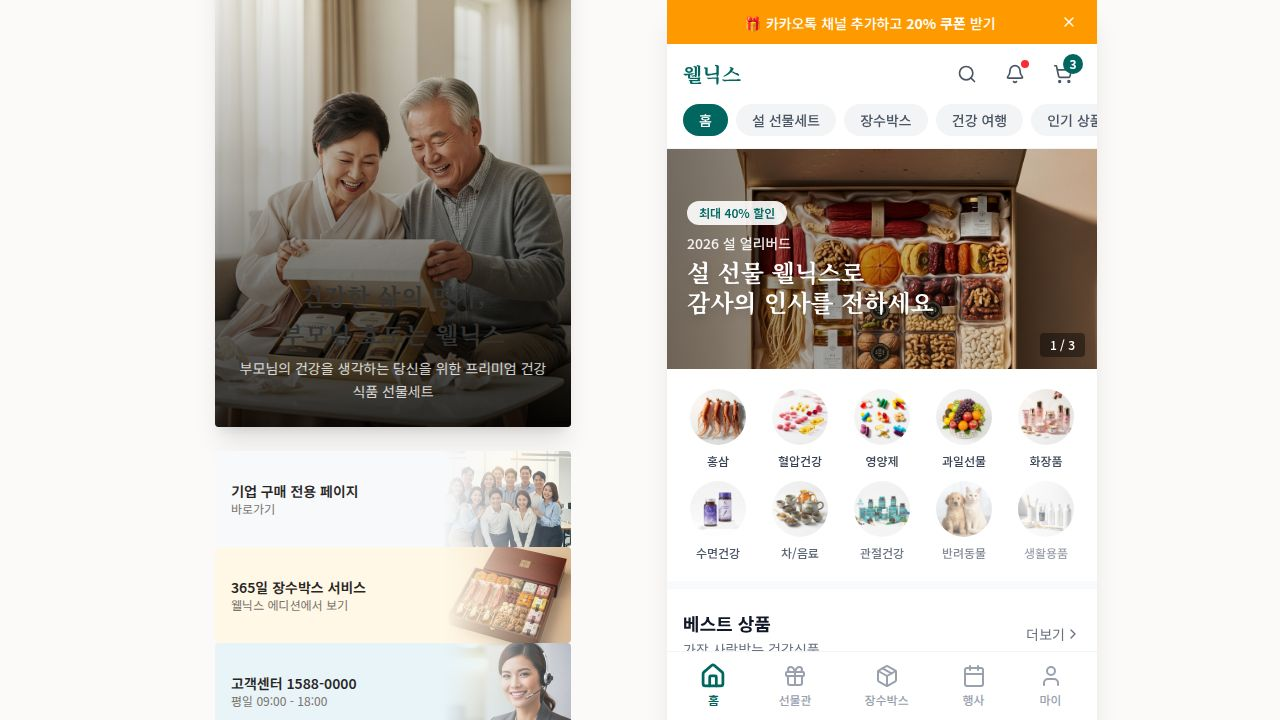
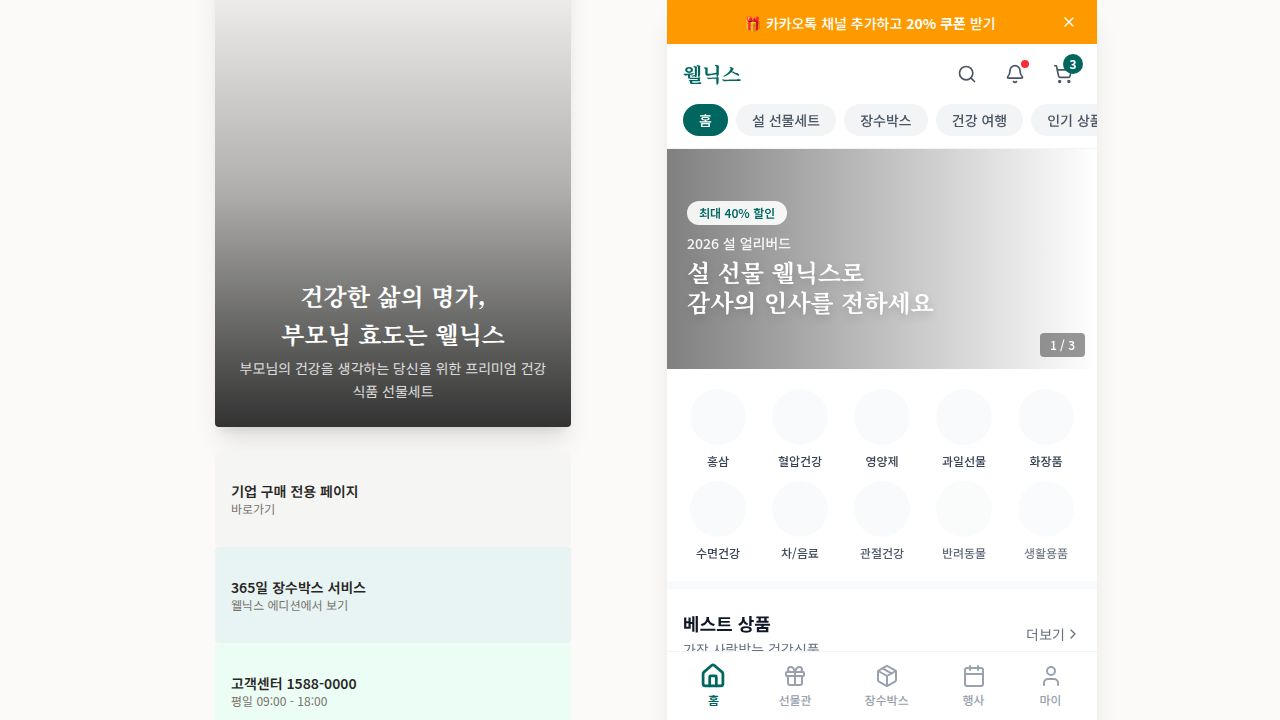
Update image sources to use Supabase storage
Refactored image imports across multiple client-side components and pages to utilize Supabase Storage URLs, replacing local asset paths. A new `client/src/lib/images.ts` file was created to manage these Supabase image URLs.

Replit-Commit-Author: Agent
Replit-Commit-Session-Id: 95a69fef-815c-4686-acda-0bf1406a2c86
Replit-Commit-Checkpoint-Type: full_checkpoint
Replit-Commit-Event-Id: 838c2716-43de-472b-a230-b011d13efcd7
Replit-Commit-Screenshot-Url: https://storage.googleapis.com/screenshot-production-us-central1/d231b134-7ceb-4650-be16-58a3bee1cfa0/95a69fef-815c-4686-acda-0bf1406a2c86/3YvdiOA
Replit-Helium-Checkpoint-Created: true

diff --git a/client/src/lib/images.ts b/client/src/lib/images.ts
@@ -1,0 +1,44 @@
+const SUPABASE_URL = import.meta.env.VITE_SUPABASE_URL || "https://iquuynjyrvsnpvpijbql.supabase.co";
+const BUCKET = "_public";
+const FOLDER = "images";
+
+function getImageUrl(filename: string): string {
+  return `${SUPABASE_URL}/storage/v1/object/public/${BUCKET}/${FOLDER}/${filename}`;
+}
+
+export const images = {
+  happySeniorsReceivingGift: getImageUrl("happy_seniors_receiving_gift.png"),
+  smilingOfficeWorkersTeam: getImageUrl("smiling_office_workers_team.png"),
+  koreanHealthGiftSet: getImageUrl("korean_health_gift_set.png"),
+  customerServiceRepresentativeHeadset: getImageUrl("customer_service_representative_headset.png"),
+  happyKoreanSeniorsOpeningLuxuryGiftBox: getImageUrl("happy_korean_seniors_opening_luxury_gift_box.png"),
+  smartphoneShowingCaringMessageNotification: getImageUrl("smartphone_showing_caring_message_notification.png"),
+  premiumKoreanHealthGiftBoxComposition: getImageUrl("premium_korean_health_gift_box_composition.png"),
+  premiumKoreanHealthGiftBox: getImageUrl("premium_korean_health_gift_box.png"),
+  koreanRedGinsengRoots: getImageUrl("korean_red_ginseng_roots.png"),
+  heartHealthSupplements: getImageUrl("heart_health_supplements.png"),
+  vitaminSupplementsPills: getImageUrl("vitamin_supplements_pills.png"),
+  freshFruitGiftBasket: getImageUrl("fresh_fruit_gift_basket.png"),
+  luxuryCosmeticsSkincareSet: getImageUrl("luxury_cosmetics_skincare_set.png"),
+  sleepHealthSupplements: getImageUrl("sleep_health_supplements.png"),
+  koreanTeaSet: getImageUrl("korean_tea_set.png"),
+  jointHealthSupplements: getImageUrl("joint_health_supplements.png"),
+  cuteDogAndCatTogether: getImageUrl("cute_dog_and_cat_together.png"),
+  dailyToiletriesProducts: getImageUrl("daily_toiletries_products.png"),
+  premiumLuxuryGiftBox: getImageUrl("premium_luxury_gift_box.png"),
+  seniorsHealthTourEvent: getImageUrl("seniors_health_tour_event.png"),
+  koreanRedGinsengJeonggwa: getImageUrl("korean_red_ginseng_jeonggwa.png"),
+  koreanDriedJujubeChips: getImageUrl("korean_dried_jujube_chips.png"),
+  organicWalnutsInBowl: getImageUrl("organic_walnuts_in_bowl.png"),
+  happySeniorsOpeningGiftBox: getImageUrl("happy_seniors_opening_gift_box.png"),
+  koreanTempleAutumnTravel: getImageUrl("korean_temple_autumn_travel.png"),
+  modernWellnessCompanyHq: getImageUrl("modern_wellness_company_hq.png"),
+  seniorRehabTherapyEquipment: getImageUrl("senior_rehab_therapy_equipment.png"),
+  luxuryKoreanHealthGiftSet: getImageUrl("luxury_korean_health_gift_set.png"),
+  koreanLuckyPouchBokjumeoni: getImageUrl("korean_lucky_pouch_bokjumeoni.png"),
+  traditionalKoreanHangwaCookies: getImageUrl("traditional_korean_hangwa_cookies.png"),
+  energyBoostingSupplements: getImageUrl("energy_boosting_supplements.png"),
+  petCareHealthProducts: getImageUrl("pet_care_health_products.png"),
+  organicGradientHealthBackground: getImageUrl("organic_gradient_health_background.png"),
+  vitaminDAndCSupplements: getImageUrl("vitamin_d_and_c_supplements.png"),
+};

diff --git a/client/src/pages/GiftsPage.tsx b/client/src/pages/GiftsPage.tsx
@@ -3,28 +3,19 @@ import { Filter, ChevronDown, ArrowLeft, ShoppingCart } from "lucide-react";
 import { useLocation } from "wouter";
 import { useQuery } from "@tanstack/react-query";
 import { AppLayout } from "@/components/AppLayout";
-import ginsengImg from "@assets/generated_images/korean_red_ginseng_roots.png";
-import heartImg from "@assets/generated_images/heart_health_supplements.png";
-import vitaminImg from "@assets/generated_images/vitamin_supplements_pills.png";
-import fruitImg from "@assets/generated_images/fresh_fruit_gift_basket.png";
-import cosmeticsImg from "@assets/generated_images/luxury_cosmetics_skincare_set.png";
-import sleepImg from "@assets/generated_images/sleep_health_supplements.png";
-import teaImg from "@assets/generated_images/korean_tea_set.png";
-import jointImg from "@assets/generated_images/joint_health_supplements.png";
-import petImg from "@assets/generated_images/cute_dog_and_cat_together.png";
-import dailyImg from "@assets/generated_images/daily_toiletries_products.png";
+import { images } from "@/lib/images";
 
 const categoryImageMap: Record<string, string> = {
-  "ginseng": ginsengImg,
-  "vitamins": vitaminImg,
-  "juice": teaImg,
-  "probiotics": heartImg,
-  "joint": jointImg,
-  "blood": heartImg,
-  "cosmetics": cosmeticsImg,
-  "sleep": sleepImg,
-  "pet": petImg,
-  "daily": dailyImg,
+  "ginseng": images.koreanRedGinsengRoots,
+  "vitamins": images.vitaminSupplementsPills,
+  "juice": images.koreanTeaSet,
+  "probiotics": images.heartHealthSupplements,
+  "joint": images.jointHealthSupplements,
+  "blood": images.heartHealthSupplements,
+  "cosmetics": images.luxuryCosmeticsSkincareSet,
+  "sleep": images.sleepHealthSupplements,
+  "pet": images.cuteDogAndCatTogether,
+  "daily": images.dailyToiletriesProducts,
 };
 
 interface Product {
@@ -81,7 +72,7 @@ export default function GiftsPage() {
     : activeProducts;
 
   const getCategoryImage = (slug: string) => {
-    return categoryImageMap[slug] || ginsengImg;
+    return categoryImageMap[slug] || images.koreanRedGinsengRoots;
   };
 
   return (

diff --git a/client/src/components/CategoryGrid.tsx b/client/src/components/CategoryGrid.tsx
@@ -1,26 +1,17 @@
 import { useLocation } from "wouter";
-import ginsengImg from "@assets/generated_images/korean_red_ginseng_roots.png";
-import heartImg from "@assets/generated_images/heart_health_supplements.png";
-import vitaminImg from "@assets/generated_images/vitamin_supplements_pills.png";
-import fruitImg from "@assets/generated_images/fresh_fruit_gift_basket.png";
-import cosmeticsImg from "@assets/generated_images/luxury_cosmetics_skincare_set.png";
-import sleepImg from "@assets/generated_images/sleep_health_supplements.png";
-import teaImg from "@assets/generated_images/korean_tea_set.png";
-import jointImg from "@assets/generated_images/joint_health_supplements.png";
-import petImg from "@assets/generated_images/cute_dog_and_cat_together.png";
-import dailyImg from "@assets/generated_images/daily_toiletries_products.png";
+import { images } from "@/lib/images";
 
 const categories = [
-  { image: ginsengImg, label: "홍삼" },
-  { image: heartImg, label: "혈압건강" },
-  { image: vitaminImg, label: "영양제" },
-  { image: fruitImg, label: "과일선물" },
-  { image: cosmeticsImg, label: "화장품" },
-  { image: sleepImg, label: "수면건강" },
-  { image: teaImg, label: "차/음료" },
-  { image: jointImg, label: "관절건강" },
-  { image: petImg, label: "반려동물" },
-  { image: dailyImg, label: "생활용품" },
+  { image: images.koreanRedGinsengRoots, label: "홍삼" },
+  { image: images.heartHealthSupplements, label: "혈압건강" },
+  { image: images.vitaminSupplementsPills, label: "영양제" },
+  { image: images.freshFruitGiftBasket, label: "과일선물" },
+  { image: images.luxuryCosmeticsSkincareSet, label: "화장품" },
+  { image: images.sleepHealthSupplements, label: "수면건강" },
+  { image: images.koreanTeaSet, label: "차/음료" },
+  { image: images.jointHealthSupplements, label: "관절건강" },
+  { image: images.cuteDogAndCatTogether, label: "반려동물" },
+  { image: images.dailyToiletriesProducts, label: "생활용품" },
 ];
 
 export function CategoryGrid() {

diff --git a/client/src/components/PromoSidebar.tsx b/client/src/components/PromoSidebar.tsx
@@ -1,9 +1,6 @@
 import { Gift, Truck, Shield, Phone } from "lucide-react";
 import { useQuery } from "@tanstack/react-query";
-import happySeniorsImage from "@assets/generated_images/happy_seniors_receiving_gift.png";
-import officeTeamImage from "@assets/generated_images/smiling_office_workers_team.png";
-import giftSetImage from "@assets/generated_images/korean_health_gift_set.png";
-import customerServiceImage from "@assets/generated_images/customer_service_representative_headset.png";
+import { images } from "@/lib/images";
 import { Link } from "wouter";
 
 interface BrandingItem {
@@ -19,10 +16,10 @@ interface BrandingItem {
 }
 
 const defaultImages: Record<string, string> = {
-  hero: happySeniorsImage,
-  banner1: officeTeamImage,
-  banner2: giftSetImage,
-  banner3: customerServiceImage,
+  hero: images.happySeniorsReceivingGift,
+  banner1: images.smilingOfficeWorkersTeam,
+  banner2: images.koreanHealthGiftSet,
+  banner3: images.customerServiceRepresentativeHeadset,
 };
 
 const defaultData: Record<string, Partial<BrandingItem>> = {
@@ -75,7 +72,7 @@ export function PromoSidebar() {
       linkUrl: item?.linkUrl ?? defaults.linkUrl ?? null,
       linkText: item?.linkText ?? defaults.subtitle ?? null,
       isActive: item?.isActive ?? true,
-      displayImage: item?.image || defaultImages[key] || happySeniorsImage,
+      displayImage: item?.image || defaultImages[key] || images.happySeniorsReceivingGift,
     };
   };
 

diff --git a/client/src/components/PromoBanner.tsx b/client/src/components/PromoBanner.tsx
@@ -1,6 +1,4 @@
-import officeWorkersImage from "@assets/generated_images/smiling_office_workers_team.png";
-import giftBoxImage from "@assets/generated_images/premium_korean_health_gift_box.png";
-import customerServiceImage from "@assets/generated_images/customer_service_representative_headset.png";
+import { images } from "@/lib/images";
 
 export function PromoBanner() {
   return (
@@ -15,7 +13,7 @@ export function PromoBanner() {
         </div>
         <div className="absolute right-0 top-0 h-full w-36">
           <img 
-            src={officeWorkersImage} 
+            src={images.smilingOfficeWorkersTeam} 
             alt="기업 구매" 
             className="w-full h-full object-cover object-top"
           />
@@ -33,7 +31,7 @@ export function PromoBanner() {
         </div>
         <div className="absolute right-0 top-0 h-full w-36">
           <img 
-            src={giftBoxImage} 
+            src={images.premiumKoreanHealthGiftBox} 
             alt="장수박스" 
             className="w-full h-full object-cover"
           />
@@ -51,7 +49,7 @@ export function PromoBanner() {
         </div>
         <div className="absolute right-0 top-0 h-full w-36">
           <img 
-            src={customerServiceImage} 
+            src={images.customerServiceRepresentativeHeadset} 
             alt="고객센터" 
             className="w-full h-full object-cover"
           />

diff --git a/client/src/pages/StoryDetailPage.tsx b/client/src/pages/StoryDetailPage.tsx
@@ -2,12 +2,14 @@ import { ArrowLeft, Share2, Heart, Calendar, Package, Gift, CheckCircle, Buildin
 import { useLocation, useParams } from "wouter";
 import { AppLayout } from "@/components/AppLayout";
 import { SEO } from "@/components/SEO";
-import giftBoxImage from "@assets/generated_images/premium_korean_health_gift_box.png";
-import luckyPouchImage from "@assets/generated_images/korean_lucky_pouch_bokjumeoni.png";
-import ginsengImage from "@assets/generated_images/korean_red_ginseng_jeonggwa.png";
-import jujubeImage from "@assets/generated_images/korean_dried_jujube_chips.png";
-import walnutImage from "@assets/generated_images/organic_walnuts_in_bowl.png";
-import hangwaImage from "@assets/generated_images/traditional_korean_hangwa_cookies.png";
+import { images } from "@/lib/images";
+
+const giftBoxImage = images.premiumKoreanHealthGiftBox;
+const luckyPouchImage = images.koreanLuckyPouchBokjumeoni;
+const ginsengImage = images.koreanRedGinsengJeonggwa;
+const jujubeImage = images.koreanDriedJujubeChips;
+const walnutImage = images.organicWalnutsInBowl;
+const hangwaImage = images.traditionalKoreanHangwaCookies;
 
 const storiesData: Record<string, {
   month: string;

diff --git a/client/src/components/EventSection.tsx b/client/src/components/EventSection.tsx
@@ -1,6 +1,6 @@
 import { ChevronRight, Calendar } from "lucide-react";
 import { useRef } from "react";
-import tourEventImage from "@assets/generated_images/seniors_health_tour_event.png";
+import { images } from "@/lib/images";
 
 const events = [
   {
@@ -15,7 +15,7 @@ const events = [
     arrivalTime: "10:30",
     price: 89000,
     originalPrice: 150000,
-    image: tourEventImage,
+    image: images.seniorsHealthTourEvent,
     included: ["왕복 버스", "점심 식사", "힐링 프로그램", "기념품"],
   },
   {
@@ -30,7 +30,7 @@ const events = [
     arrivalTime: "11:30",
     price: 29000,
     originalPrice: 50000,
-    image: tourEventImage,
+    image: images.seniorsHealthTourEvent,
     included: ["온라인 강의", "교재 제공", "수료증"],
   },
   {
@@ -45,7 +45,7 @@ const events = [
     arrivalTime: "14:30",
     price: 0,
     originalPrice: 30000,
-    image: tourEventImage,
+    image: images.seniorsHealthTourEvent,
     included: ["무료 세미나", "홍삼 시음", "선물 증정"],
   },
 ];

diff --git a/client/src/components/HeroBanner.tsx b/client/src/components/HeroBanner.tsx
@@ -1,6 +1,6 @@
 import { ChevronLeft, ChevronRight } from "lucide-react";
 import { useState } from "react";
-import giftSetImage from "@assets/generated_images/luxury_korean_health_gift_set.png";
+import { images } from "@/lib/images";
 
 const banners = [
   {
@@ -8,21 +8,21 @@ const banners = [
     title: "2026 설 얼리버드",
     subtitle: "설 선물 웰닉스로\n감사의 인사를 전하세요",
     badge: "최대 40% 할인",
-    image: giftSetImage,
+    image: images.luxuryKoreanHealthGiftSet,
   },
   {
     id: 2,
     title: "매주 목요일은",
     subtitle: "웰닉스 구독자\n특별 할인의 날",
     badge: "구독 혜택",
-    image: giftSetImage,
+    image: images.luxuryKoreanHealthGiftSet,
   },
   {
     id: 3,
     title: "신규 가입 특별 혜택",
     subtitle: "첫 구독 시\n30% 할인 + 무료배송",
     badge: "신규 회원",
-    image: giftSetImage,
+    image: images.luxuryKoreanHealthGiftSet,
   },
 ];
 

diff --git a/client/src/pages/JangsuBrandPage.tsx b/client/src/pages/JangsuBrandPage.tsx
@@ -3,11 +3,11 @@ import { useLocation } from "wouter";
 import { AppLayout } from "@/components/AppLayout";
 import { SEO } from "@/components/SEO";
 import { motion } from "framer-motion";
+import { images } from "@/lib/images";
 
-// Images (generated)
-import happySeniorsImage from "@assets/generated_images/happy_korean_seniors_opening_luxury_gift_box.png";
-import messageNotificationImage from "@assets/generated_images/smartphone_showing_caring_message_notification.png";
-import premiumBoxImage from "@assets/generated_images/premium_korean_health_gift_box_composition.png";
+const happySeniorsImage = images.happyKoreanSeniorsOpeningLuxuryGiftBox;
+const messageNotificationImage = images.smartphoneShowingCaringMessageNotification;
+const premiumBoxImage = images.premiumKoreanHealthGiftBoxComposition;
 
 export default function JangsuBrandPage() {
   const [, setLocation] = useLocation();

diff --git a/client/src/pages/MyPage.tsx b/client/src/pages/MyPage.tsx
@@ -2,10 +2,12 @@ import { useState } from "react";
 import { useLocation } from "wouter";
 import { Bell, ShoppingCart, ChevronRight, Gift, Package, Heart, Star, Truck, Award, Mail, User, Loader2 } from "lucide-react";
 import { AppLayout } from "@/components/AppLayout";
-import giftBoxImage from "@assets/generated_images/premium_korean_health_gift_box.png";
-import happySeniorsImage from "@assets/generated_images/happy_seniors_receiving_gift.png";
+import { images } from "@/lib/images";
 import { toast } from "sonner";
 import { useAuth } from "@/hooks/use-auth";
+
+const giftBoxImage = images.premiumKoreanHealthGiftBox;
+const happySeniorsImage = images.happySeniorsReceivingGift;
 
 const recentOrders = [
   { image: giftBoxImage, name: "[2026] 설 프리미엄 홍삼 선물세트", status: "배송중", date: "01.12 도착예정" },

diff --git a/client/src/pages/SubscriptionPage.tsx b/client/src/pages/SubscriptionPage.tsx
@@ -4,9 +4,11 @@ import { useLocation } from "wouter";
 import { useQuery } from "@tanstack/react-query";
 import { AppLayout } from "@/components/AppLayout";
 import { SEO } from "@/components/SEO";
-import giftBoxImage from "@assets/generated_images/premium_korean_health_gift_box.png";
-import happySeniorsImage from "@assets/generated_images/happy_seniors_receiving_gift.png";
+import { images } from "@/lib/images";
 import type { SubscriptionPlan } from "@shared/schema";
+
+const giftBoxImage = images.premiumKoreanHealthGiftBox;
+const happySeniorsImage = images.happySeniorsReceivingGift;
 
 const reviews = [
   { id: "1", name: "김**", rating: 5, date: "2026.01.10", content: "부모님이 정말 좋아하세요! 매달 기다리신대요. 포장도 고급스럽고 내용물도 알차요.", product: "프리미엄 박스" },

diff --git a/client/src/pages/EventDetailPage.tsx b/client/src/pages/EventDetailPage.tsx
@@ -2,9 +2,11 @@ import { useParams, useLocation } from "wouter";
 import { ArrowLeft, Calendar, MapPin, Users, Clock, Gift, Utensils, Bus, CheckCircle, MessageCircle, Share2, Building2, Phone, User } from "lucide-react";
 import { AppLayout } from "@/components/AppLayout";
 import { SEO } from "@/components/SEO";
-import templeImage from "@assets/generated_images/korean_temple_autumn_travel.png";
-import hqImage from "@assets/generated_images/modern_wellness_company_hq.png";
-import rehabImage from "@assets/generated_images/senior_rehab_therapy_equipment.png";
+import { images } from "@/lib/images";
+
+const templeImage = images.koreanTempleAutumnTravel;
+const hqImage = images.modernWellnessCompanyHq;
+const rehabImage = images.seniorRehabTherapyEquipment;
 
 const eventsData: Record<string, {
   id: string;
